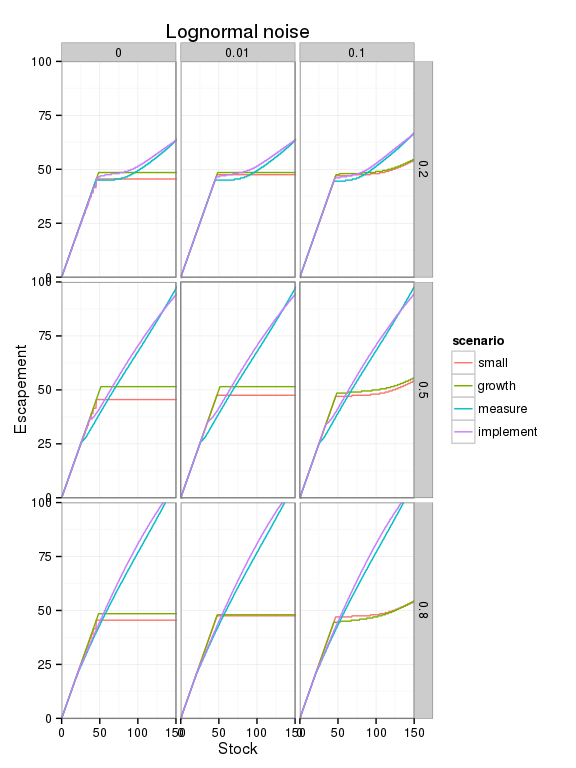
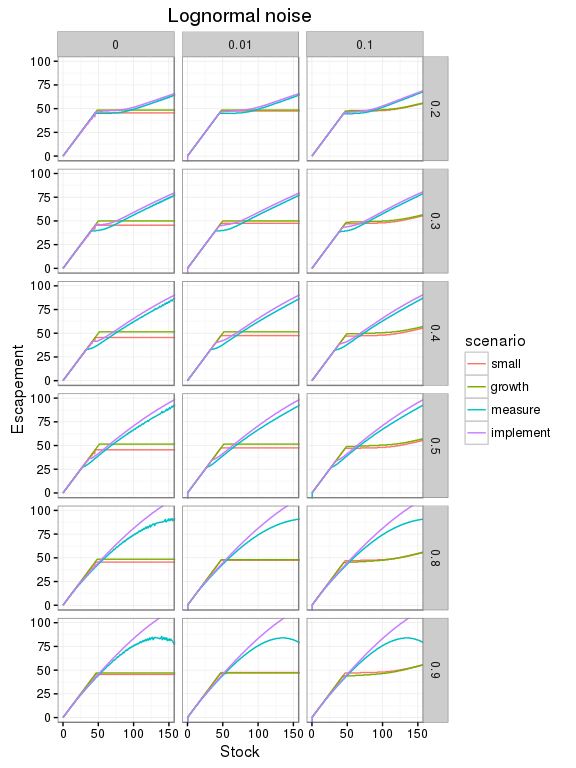
update results on noise values

Changed region(s): [[0.0, 0.0, 0.9375, 1.0], [0.1562, 0.9375, 0.1875, 0.9688]]

diff --git a/inst/notebook/robustness.md b/inst/notebook/robustness.md
@@ -120,7 +120,7 @@ fig3 <- function(low, high, noise_dist){
 ```
 
 ``` r
-expand.grid(low = c(0, 0.01, 0.1), high = c(0.2, 0.5, 0.8), noise_dist = c("lognormal", "uniform")) %>%
+expand.grid(low = c(0, 0.01, 0.1), high = c(0.2, 0.3, 0.4, 0.5, 0.8, 0.9), noise_dist = c("lognormal", "uniform")) %>%
   dplyr::group_by(low, high, noise_dist) %>%
   dplyr::do(fig3(.$low, .$high, .$noise_dist)) -> df
 ```
